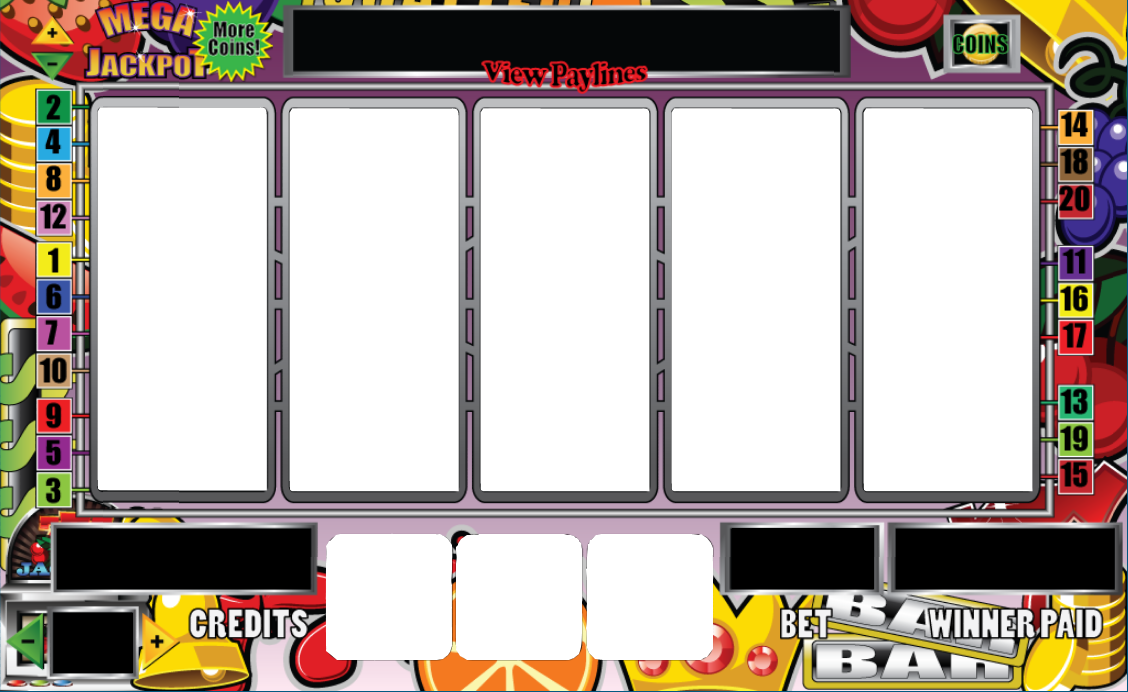
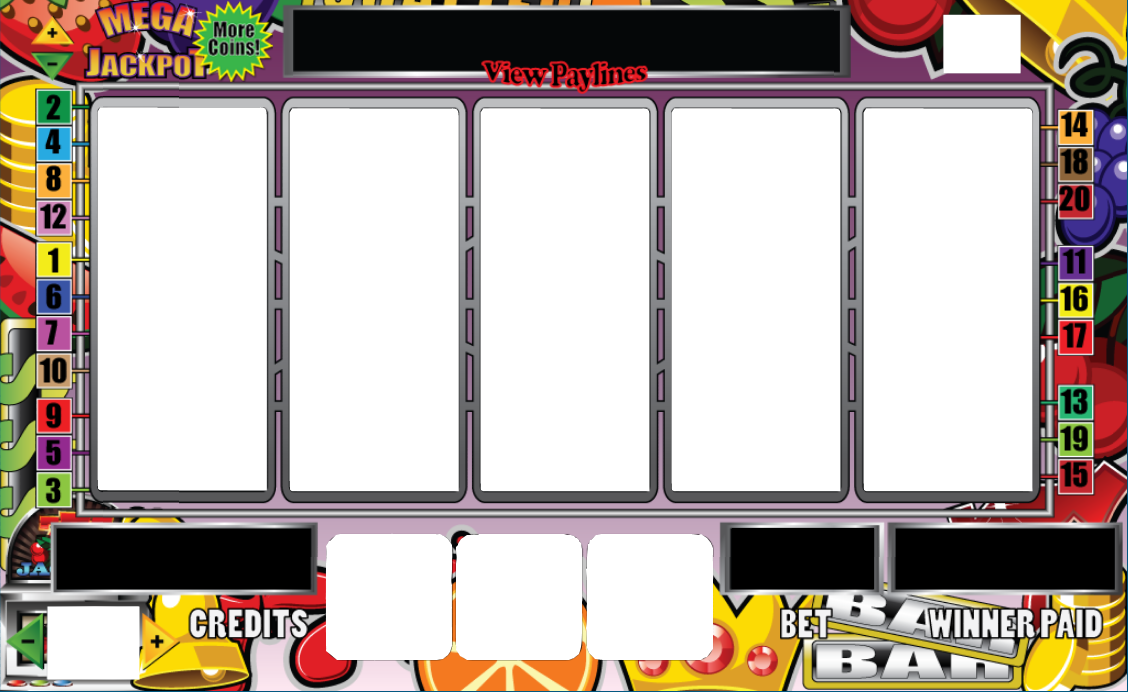
functional version 1.1

Changed region(s): [[0.031, 0.8497, 0.1241, 1.0], [0.8378, 0.0, 0.9309, 0.1214]]

diff --git a/COMP2068-SlotMachineDemo/Scripts/game.js b/COMP2068-SlotMachineDemo/Scripts/game.js
@@ -9,6 +9,7 @@ var spinButton;
 var betMaxButton;
 var betOneButton;
 var resetButton;
+var powerButton;
 var tiles = [];
 var tileContainers = [];
 
@@ -95,12 +96,14 @@ function resetAll() {
     jackpot = 5000;
     turn = 0;
     playerBet = 5;
-    maxBet = 10;
+    maxBet = 20;
     winNumber = 0;
     lossNumber = 0;
     winRatio = 0;
 
     resetText();
+
+    setEnableSpin();
 }
 
 // Event handlers
@@ -156,6 +159,8 @@ function betMax() {
         bet.y = 536;
 
         game.addChild(bet);
+
+        setEnableSpin();
     }
 }
 
@@ -168,15 +173,29 @@ function betOne() {
         bet.y = 536;
 
         game.addChild(bet);
+
+        setEnableSpin();
+    }
+}
+
+function setEnableSpin() {
+    if (playerMoney < playerBet) {
+        spinButton = new objects.Button("/assets/images/btnSpin_grey.png", 584, 532);
+        spinButton.setScale(129 / 132, 128 / 131);
+        game.addChild(spinButton.getImage());
+    } else {
+        spinButton = new objects.Button("/assets/images/btnSpin.png", 584, 532);
+        spinButton.setScale(129 / 132, 128 / 131);
+        game.addChild(spinButton.getImage());
+        spinButton.getImage().addEventListener("click", spinReels);
     }
 }
 
 function spinReels() {
-    if (+credit.toString() < 0) {
-        if (confirm("You lose your money. Do you want to reset the game? Reset the game is 'OK', Queit the game is 'Cancel'.")) {
-            resetAll();
-        } else {
-        }
+    if (playerMoney < playerBet) {
+        alert("You don't have enough money for betting. Please press the reset button.");
+
+        setEnableSpin();
     } else {
         createjs.Sound.play("button");
 
@@ -196,10 +215,10 @@ function spinReels() {
 
             game.addChild(tiles[tile]);
             console.log(game.getNumChildren());
-
-            resetText();
         }
+
         determineWinnings();
+        resetText();
     }
 }
 
@@ -338,7 +357,15 @@ function determineWinnings() {
     resetFruitTally();
 }
 
+function powerOff() {
+    if (confirm("Do you want to close the window?")) {
+        window.close();
+    }
+}
+
 function createUI() {
+    createjs.Sound.play("background");
+
     createjs.Sound.alternateExtensions = ["mp3"];
     createjs.Sound.registerSound("assets/audio/button.mp3", "bntSound", 1);
 
@@ -367,40 +394,39 @@ function createUI() {
     betOneButton.getImage().addEventListener("click", betOne);
 
     // Reset Button
-    resetButton = new objects.Button("/assets/images/btnReset.png", 44, 594);
+    resetButton = new objects.Button("/assets/images/btnReset.png", 46, 594);
     resetButton.setScale(95 / 132, 95 / 131);
     game.addChild(resetButton.getImage());
-
     resetButton.getImage().addEventListener("click", resetAll);
 
-    resetButton.getImage().addEventListener("click", function () {
-        console.log("reset clicked");
+    // power Button
+    powerButton = new objects.Button("/assets/images/btnPower.png", 941, 2);
+    powerButton.setScale(81 / 102, 80 / 101);
+    game.addChild(powerButton.getImage());
+    powerButton.getImage().addEventListener("click", powerOff);
 
-        // Reset Text
-        credit.x = 200;
-        credit.y = 536;
-        game.addChild(credit);
+    // Reset Text
+    credit.x = 200;
+    credit.y = 536;
+    game.addChild(credit);
 
-        bet.x = 800;
-        bet.y = 536;
-        game.addChild(bet);
+    bet.x = 800;
+    bet.y = 536;
+    game.addChild(bet);
 
-        winnerPaid.x = 1000;
-        winnerPaid.y = 536;
-        game.addChild(winnerPaid);
+    winnerPaid.x = 1000;
+    winnerPaid.y = 536;
+    game.addChild(winnerPaid);
 
-        win.x = 360;
-        win.y = 20;
-        game.addChild(win);
+    win.x = 360;
+    win.y = 20;
+    game.addChild(win);
 
-        lose.x = 630;
-        lose.y = 20;
-        game.addChild(lose);
+    lose.x = 630;
+    lose.y = 20;
+    game.addChild(lose);
 
-        resetText();
-
-        this.getStage().enableMouseOver();
-    });
+    resetText();
 }
 
 // Our Game Kicks off in here
@@ -410,13 +436,9 @@ function main() {
     game.x = 0;
     game.y = 0;
 
-    createjs.Sound.on("fileload", createjs.proxy(this.loadHandler, (this)));
-    createjs.Sound.registerSound("assets/audio/backsounds.mp3", "winSound", 1);
-
     // Create Slotmachine User Interface
     createUI();
 
     stage.addChild(game);
-    createjs.Sound.play("winSound");
 }
 //# sourceMappingURL=game.js.map

diff --git a/COMP2068-SlotMachineDemo/Scripts/game.ts b/COMP2068-SlotMachineDemo/Scripts/game.ts
@@ -11,6 +11,7 @@ var spinButton: objects.Button;
 var betMaxButton: objects.Button;
 var betOneButton: objects.Button;
 var resetButton: objects.Button;
+var powerButton: objects.Button;
 var tiles: createjs.Bitmap[] = [];
 var tileContainers: createjs.Container[] = [];
 
@@ -102,12 +103,14 @@ function resetAll() {
     jackpot = 5000;
     turn = 0;
     playerBet = 5;
-    maxBet = 10;
+    maxBet = 20;
     winNumber = 0;
     lossNumber = 0;
     winRatio = 0;
 
     resetText();
+
+    setEnableSpin();
 }
 
 
@@ -125,7 +128,6 @@ function spinButtonOver() {
     spinButton.alpha = 0.5;
 
 }*/
-
 
 function resetText() {
     // Reset Text
@@ -174,6 +176,8 @@ function betMax() {
         bet.y = 536;
 
         game.addChild(bet);
+
+        setEnableSpin();
     }
 }
 
@@ -186,19 +190,37 @@ function betOne() {
         bet.y = 536;
 
         game.addChild(bet);
+
+        setEnableSpin();
+    }
+}
+
+function setEnableSpin() {
+
+    if (playerMoney < playerBet) {
+
+        spinButton = new objects.Button("/assets/images/btnSpin_grey.png", 584, 532);
+        spinButton.setScale(129 / 132, 128 / 131);
+        game.addChild(spinButton.getImage());
+
+    }
+    else {
+        spinButton = new objects.Button("/assets/images/btnSpin.png", 584, 532);
+        spinButton.setScale(129 / 132, 128 / 131);
+        game.addChild(spinButton.getImage());
+        spinButton.getImage().addEventListener("click", spinReels);
     }
 }
 
 function spinReels() {
 
-    if (+credit.toString() < 0) {
+    if (playerMoney < playerBet) {
 
-        if (confirm("You lose your money. Do you want to reset the game? Reset the game is 'OK', Queit the game is 'Cancel'.")) {
-            resetAll();
-        }
-        else {
 
-        }
+        alert("You don't have enough money for betting. Please press the reset button.")
+
+        setEnableSpin();
+
     }
     else {
         createjs.Sound.play("button");
@@ -220,10 +242,10 @@ function spinReels() {
 
             game.addChild(tiles[tile]);
             console.log(game.getNumChildren());
-
-            resetText();
         }
+        
         determineWinnings();
+        resetText();
     }
     
 }
@@ -398,7 +420,14 @@ function determineWinnings() {
 }
 
 
+function powerOff() {
+    if (confirm("Do you want to close the window?")) {
+        window.close();
+    }
+}
+
 function createUI(): void {
+    createjs.Sound.play("background");
 
     createjs.Sound.alternateExtensions = ["mp3"];
     createjs.Sound.registerSound("assets/audio/button.mp3", "bntSound", 1);
@@ -429,14 +458,16 @@ function createUI(): void {
     betOneButton.getImage().addEventListener("click", betOne);
 
     // Reset Button
-    resetButton = new objects.Button("/assets/images/btnReset.png", 44, 594);
+    resetButton = new objects.Button("/assets/images/btnReset.png", 46, 594);
     resetButton.setScale(95/132, 95/131);
     game.addChild(resetButton.getImage());
-
     resetButton.getImage().addEventListener("click", resetAll);
 
-    resetButton.getImage().addEventListener("click", function () {
-        console.log("reset clicked");
+    // power Button
+    powerButton = new objects.Button("/assets/images/btnPower.png", 941, 2);
+    powerButton.setScale(81 / 102, 80 / 101);
+    game.addChild(powerButton.getImage());
+    powerButton.getImage().addEventListener("click", powerOff);
 
     // Reset Text
         credit.x = 200;
@@ -465,8 +496,6 @@ function createUI(): void {
 
         resetText();
 
-        this.getStage().enableMouseOver();
-    });
 }
 
 
@@ -478,12 +507,9 @@ function main() {
     game.x = 0;
     game.y = 0;
 
-    createjs.Sound.on("fileload", createjs.proxy(this.loadHandler, (this)));
-    createjs.Sound.registerSound("assets/audio/backsounds.mp3", "winSound", 1);
-    
     // Create Slotmachine User Interface
     createUI();
 
     stage.addChild(game);
-    createjs.Sound.play("winSound");
+    
 }
